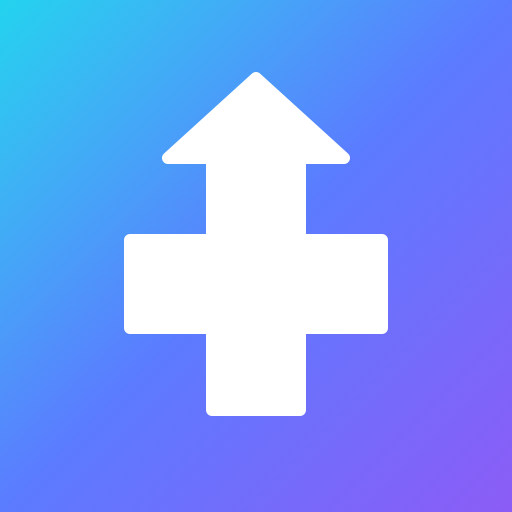
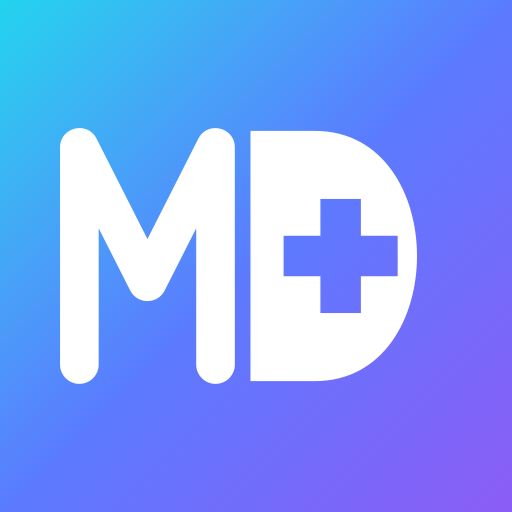
feat(jobmd): the mark is now an MD monogram with the cross inside the D
The cross-plus-arrow mark read as a generic up arrow, not as medicine. This is
an MD monogram — the credential itself — with a medical cross knocked out of
the D.

It deliberately avoids what the stock-medical search returns. Most of those
logos use the caduceus, which is Hermes and the symbol of commerce; the medical
symbol is the Rod of Asclepius, one snake and no wings. I drew that too, and
rejected it: a snake collapses into a squiggle at icon size. Cross-plus-pulse
read as a cross standing on a scribble. Cross-in-a-ring was legible but generic
enough to belong to anyone.

Every candidate was rendered and looked at, at 512px and blown back up from
32px, rather than judged from the SVG source. Two bugs were caught that way: a
first pass drew the D with no stem, so it rendered as a 'C', and the finished
monogram had the M's right leg touching the D's stem, which merged them into
one thick bar. The gap is now 17 units before scaling.

Content sits inside the central 80% so the full-bleed master still works as a
maskable icon. logo-master stays unrounded; favicon.svg keeps the rounded tab
variant. Both inline lockups regenerated, unique gradient ids preserved.

SIT 201/201.

Changed region(s): [[0.0938, 0.125, 0.8125, 0.8125]]

diff --git a/verticals/jobmd/public/index.html b/verticals/jobmd/public/index.html
@@ -226,7 +226,7 @@ html,body{margin:0;padding:0;background:#0a0a0e;min-height:100%;overflow-x:hidde
 <!-- ── NAV ────────────────────────────────────────────────────────────── -->
 <nav class="nav"><div class="wrap">
   <a class="brand" href="#top">
-    <svg class="mk" viewBox="0 0 512 512" width="34" height="34" aria-hidden="true" focusable="false"><defs><linearGradient id="jmdNav" x1="0" y1="0" x2="1" y2="1"><stop offset="0" stop-color="#22d3ee"/><stop offset="0.5" stop-color="#5b7bff"/><stop offset="1" stop-color="#8b5cf6"/></linearGradient></defs><rect width="512" height="512" rx="112" fill="url(#jmdNav)"/><path d="M256 78 L344 158 L300 158 L300 240 L382 240 L382 328 L300 328 L300 410 L212 410 L212 328 L130 328 L130 240 L212 240 L212 158 L168 158 Z" fill="#fff" stroke="#fff" stroke-width="12" stroke-linejoin="round"/></svg>
+    <svg class="mk" viewBox="0 0 512 512" width="34" height="34" aria-hidden="true" focusable="false"><defs><linearGradient id="jmdNav" x1="0" y1="0" x2="1" y2="1"><stop offset="0" stop-color="#22d3ee"/><stop offset="0.5" stop-color="#5b7bff"/><stop offset="1" stop-color="#8b5cf6"/></linearGradient></defs><rect width="512" height="512" rx="112" fill="url(#jmdNav)"/><g transform="translate(256,256) scale(0.92) translate(-276,-268)"><path d="M84 386 L84 150 L158 296 L232 150 L232 386" stroke="#fff" stroke-width="42" fill="none" stroke-linecap="round" stroke-linejoin="round"/><path d="M270 132 L340 132 C 488 132 488 404 340 404 L270 404 Z M346 206 L390 206 L390 246 L430 246 L430 290 L390 290 L390 330 L346 330 L346 290 L306 290 L306 246 L346 246 Z" fill="#fff" fill-rule="evenodd"/></g></svg>
     <span>JobMD.io<small>A division of JobUp.dev</small></span>
   </a>
   <button class="burger" id="burger" aria-label="Menu">&#9776;</button>
@@ -551,7 +551,7 @@ html,body{margin:0;padding:0;background:#0a0a0e;min-height:100%;overflow-x:hidde
 <footer><div class="wrap">
   <div class="fgrid">
     <div>
-      <a class="brand" href="#top"><svg class="mk" viewBox="0 0 512 512" width="34" height="34" aria-hidden="true" focusable="false"><defs><linearGradient id="jmdFoot" x1="0" y1="0" x2="1" y2="1"><stop offset="0" stop-color="#22d3ee"/><stop offset="0.5" stop-color="#5b7bff"/><stop offset="1" stop-color="#8b5cf6"/></linearGradient></defs><rect width="512" height="512" rx="112" fill="url(#jmdFoot)"/><path d="M256 78 L344 158 L300 158 L300 240 L382 240 L382 328 L300 328 L300 410 L212 410 L212 328 L130 328 L130 240 L212 240 L212 158 L168 158 Z" fill="#fff" stroke="#fff" stroke-width="12" stroke-linejoin="round"/></svg><span>JobMD.io<small>A division of JobUp.dev</small></span></a>
+      <a class="brand" href="#top"><svg class="mk" viewBox="0 0 512 512" width="34" height="34" aria-hidden="true" focusable="false"><defs><linearGradient id="jmdFoot" x1="0" y1="0" x2="1" y2="1"><stop offset="0" stop-color="#22d3ee"/><stop offset="0.5" stop-color="#5b7bff"/><stop offset="1" stop-color="#8b5cf6"/></linearGradient></defs><rect width="512" height="512" rx="112" fill="url(#jmdFoot)"/><g transform="translate(256,256) scale(0.92) translate(-276,-268)"><path d="M84 386 L84 150 L158 296 L232 150 L232 386" stroke="#fff" stroke-width="42" fill="none" stroke-linecap="round" stroke-linejoin="round"/><path d="M270 132 L340 132 C 488 132 488 404 340 404 L270 404 Z M346 206 L390 206 L390 246 L430 246 L430 290 L390 290 L390 330 L346 330 L346 290 L306 290 L306 246 L346 246 Z" fill="#fff" fill-rule="evenodd"/></g></svg><span>JobMD.io<small>A division of JobUp.dev</small></span></a>
       <p style="color:var(--faint);font-size:13.5px;margin-top:14px">Superior Talent. Superior Results.</p>
       <p style="margin-top:12px"><a class="tel" href="tel:8883154401">(888) 315-4401</a></p>
     </div>

diff --git a/CLAUDE.md b/CLAUDE.md
@@ -666,7 +666,7 @@ Turns the project request into the declared build-plan JSON for OrbUp.app.
 
 **Ava narrates the landing page.** `public/index.html` carries the runbook's Layer 3 narration orb — eight segments (an intro plus one per section), the section being read lifts out of the page, and every section has its own Listen button. It posts to the repo's shared zero-key `/api/tts/edge` with the `ava` alias (`en-US-AvaNeural`); **no second TTS backend ships inside this vertical**, and SIT fails if one appears. **Numbers are spelled out in the script** ("eight and a half million", "eight eight eight, three one five, four four zero one") because Edge reads `8.5` and `(888)` badly and this is copy being read aloud to a surgeon — SIT rejects a segment containing raw numerals. Falls back to browser speech if the route is down. This deliberately REPLACED the generic `digit2ai` conversational orb: two floating voice surfaces on one landing page is redundancy, not a feature.
 
-**The mark** is a medical cross whose top arm rises into an arrowhead — the cross says physician, the ascent says JobUp; one mark for both halves of the name. `public/logo-master.svg` is the single source, **full-bleed square on purpose** (iOS rounds `apple-touch-icon` itself; a pre-rounded source gets double-rounded), with `favicon.svg` as the rounded tab variant. `sips -s format png -Z <n>` produces `apple-touch-icon.png` (180) / `icon-192` / `icon-512` / `favicon-32`. The nav and footer lockups inline the SVG with **unique gradient ids** — two inline SVGs sharing one id makes the second render flat, and SIT checks for that.
+**The mark** is an **MD monogram with a medical cross knocked out of the D** — the credential itself, with the cross carried inside it. It deliberately avoids the stock-medical clichés: no caduceus (which is Hermes, the symbol of commerce, and is what most "medical" logos get wrong — the correct one is the Rod of Asclepius), no heart, no person-swoosh. An earlier cross-plus-arrow mark was replaced because it read as a generic up arrow, and a Rod of Asclepius attempt was rejected because the snake collapses into a squiggle at icon size. Every candidate was rendered and looked at, at 512px **and blown back up from 32px**, rather than judged from the source. `public/logo-master.svg` is the single source, **full-bleed square on purpose** (iOS rounds `apple-touch-icon` itself; a pre-rounded source gets double-rounded), with `favicon.svg` as the rounded tab variant. `sips -s format png -Z <n>` produces `apple-touch-icon.png` (180) / `icon-192` / `icon-512` / `favicon-32`. The nav and footer lockups inline the SVG with **unique gradient ids** — two inline SVGs sharing one id makes the second render flat, and SIT checks for that.
 
 **Endpoints:** `GET /jobmd/health` · `GET /api/v1/architect/schema` · `GET /api/v1/architect/plan[?model=0]` (public, persists nothing, no PII by construction) · `POST|GET /api/v1/architect/runs`, `GET /api/v1/architect/runs/:id` (auth, tenant-scoped, cross-tenant reads 404) · `POST /api/v1/leads` (public, rate-limited, salted `ip_hash` never a raw IP) · `GET /api/v1/leads` (auth) · `POST /api/v1/auth/login|logout`. Debug: `/debug/jobmd-error`.
 
